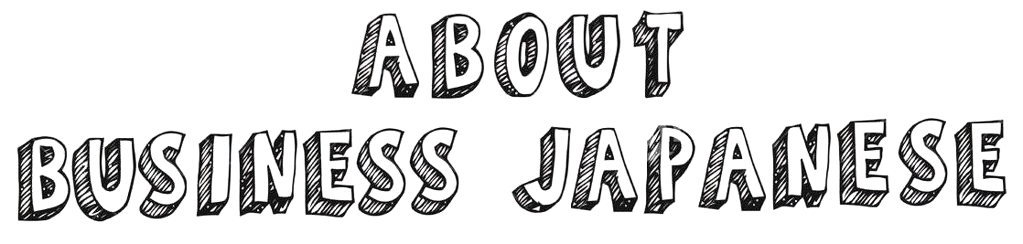
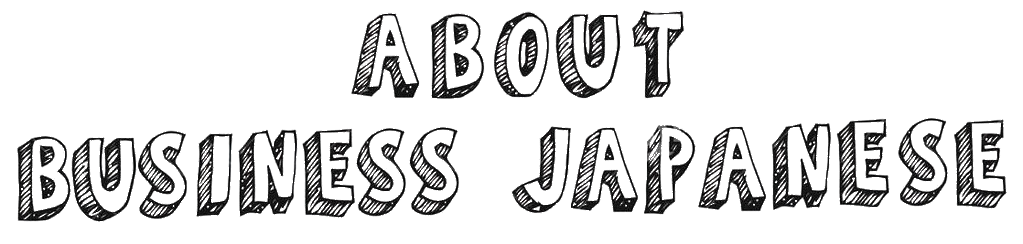
Lang toggle

Changed region(s): [[0.5758, 0.0574, 0.6061, 0.0861]]

diff --git a/app/LangToggleBtn.jsx b/app/LangToggleBtn.jsx
@@ -8,11 +8,13 @@ const LangToggleBtn = () => {
   return (
     <button
       onClick={toggleLang}
-      className="border rounded p-1 border-gray-500 md:w-20 cursor-pointer"
+      className="border rounded-md px-1 md:p-1 border-gray-400 cursor-pointer w-25 md:w-30 hover:bg-white
+      dark:border-gray-500 dark:hover:bg-[rgb(55,55,55)]"
     >
-      <span className="font-[450] text-sm">
+      <p className="text-xs">Change to</p>
+      <p className="text-[13px] font-medium">
         {lang === "en" ? "日本語" : "English"}
-      </span>
+      </p>
     </button>
   );
 };
